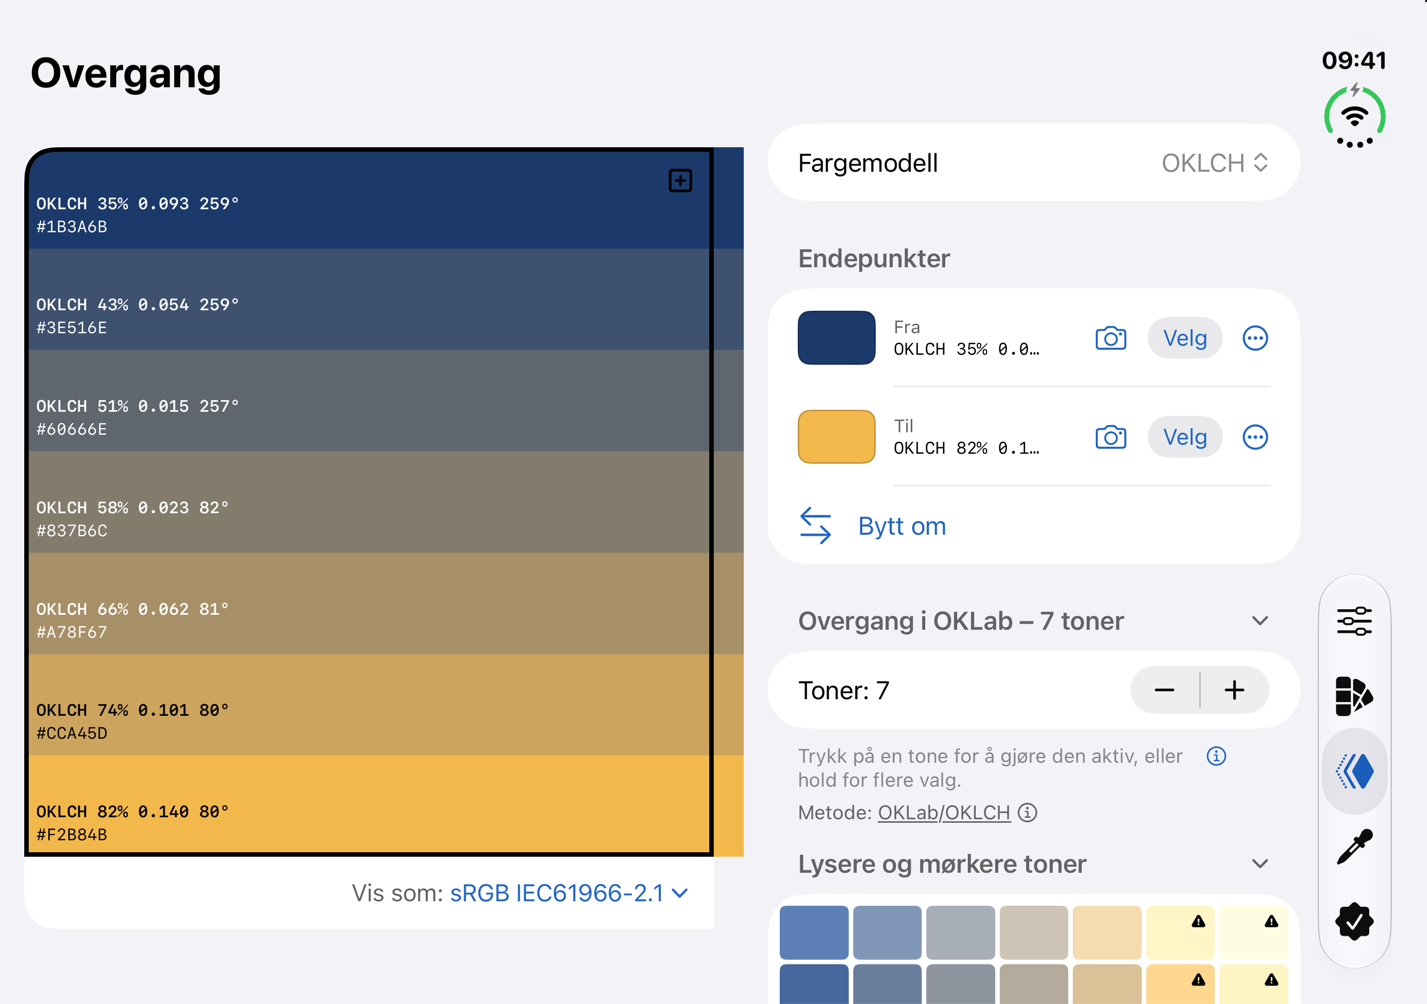
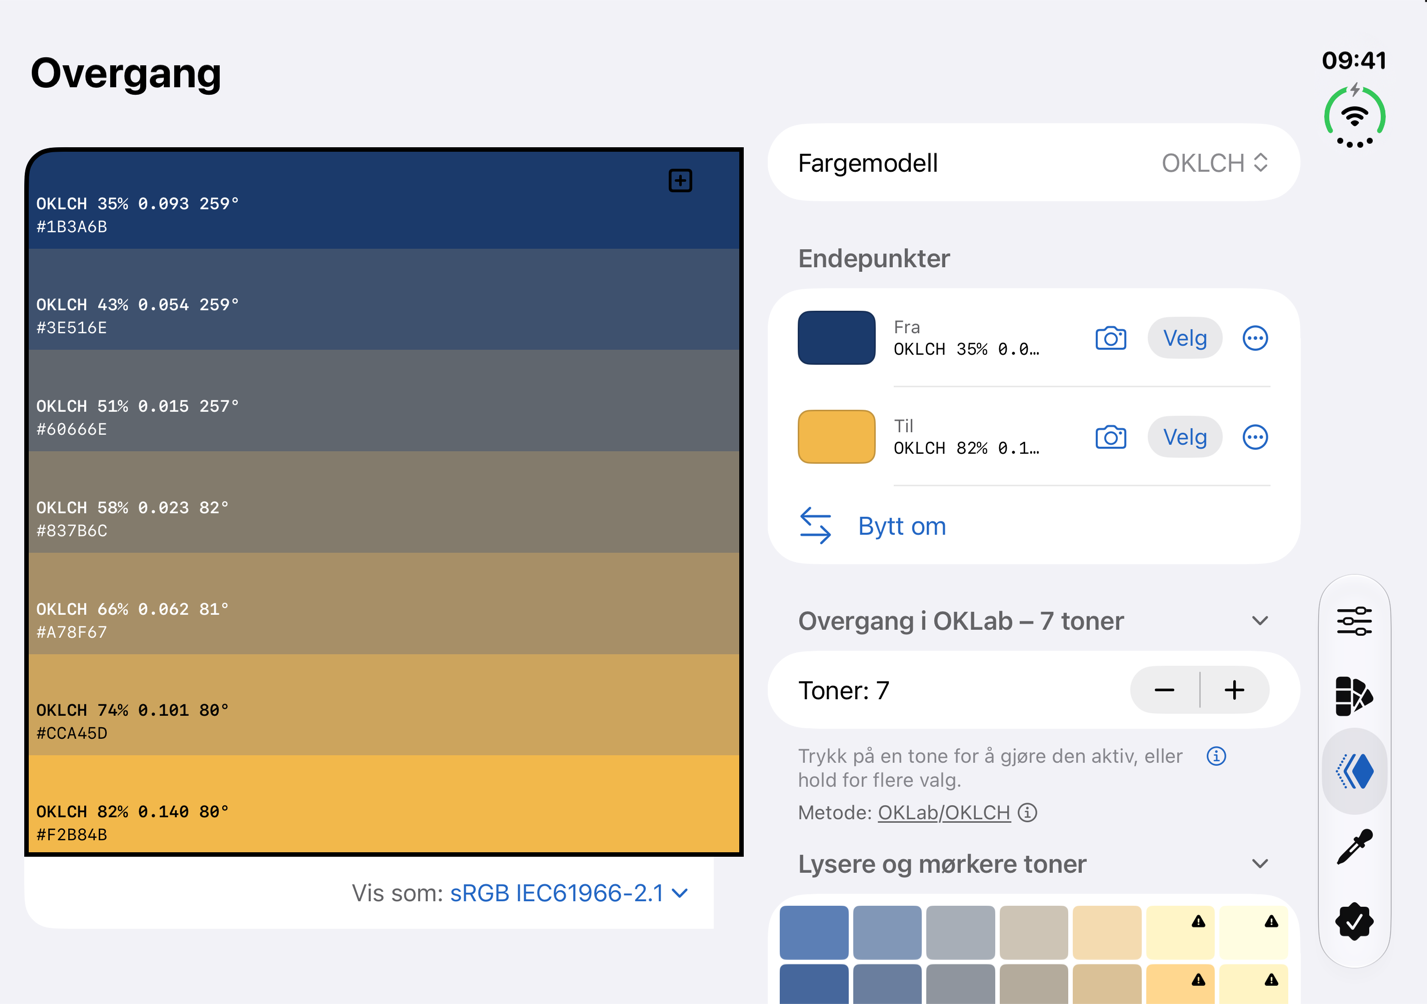
Web 1.4 Duo-siden: engelske skjermbilder av åpen visning, Harmoni og Overgang på nytt med rammen over brettelinjen

Changed region(s): [[0.4933, 0.1235, 0.5242, 0.8645]]

diff --git a/web/1.4/en/duo.html b/web/1.4/en/duo.html
@@ -69,11 +69,11 @@
       </div>
       <div class="duo-bilder">
         <figure class="duo-lukket">
-          <img src="../assets/en/duo/lukket-studio-farge.png?v=10" alt="Studio with the colour and the sliders – closed" width="699" height="1017" loading="lazy">
+          <img src="../assets/en/duo/lukket-studio-farge.png?d=2" alt="Studio with the colour and the sliders – closed" width="699" height="1017" loading="lazy">
           <figcaption>Closed</figcaption>
         </figure>
         <figure class="duo-åpen">
-          <img src="../assets/duo/apen-studio-farge.png?v=10" alt="Studio with the colour and the sliders – open" width="1427" height="1004" loading="lazy">
+          <img src="../assets/en/duo/apen-studio-farge.png?d=2" alt="Studio with the colour and the sliders – open" width="1427" height="1004" loading="lazy">
           <figcaption>Open</figcaption>
         </figure>
       </div>
@@ -90,11 +90,11 @@
       </div>
       <div class="duo-bilder">
         <figure class="duo-lukket">
-          <img src="../assets/en/duo/lukket-studio-harmoni.png?v=10" alt="A split-complementary harmony – closed" width="699" height="1017" loading="lazy">
+          <img src="../assets/en/duo/lukket-studio-harmoni.png?d=2" alt="A split-complementary harmony – closed" width="699" height="1017" loading="lazy">
           <figcaption>Closed</figcaption>
         </figure>
         <figure class="duo-åpen">
-          <img src="../assets/duo/apen-studio-harmoni.png?v=10" alt="A split-complementary harmony – open" width="1427" height="1004" loading="lazy">
+          <img src="../assets/en/duo/apen-studio-harmoni.png?d=2" alt="A split-complementary harmony – open" width="1427" height="1004" loading="lazy">
           <figcaption>Open</figcaption>
         </figure>
       </div>
@@ -110,11 +110,11 @@
       </div>
       <div class="duo-bilder">
         <figure class="duo-lukket">
-          <img src="../assets/en/duo/lukket-studio-toneskala.png?v=10" alt="A tone scale with eleven steps – closed" width="699" height="1017" loading="lazy">
+          <img src="../assets/en/duo/lukket-studio-toneskala.png?d=2" alt="A tone scale with eleven steps – closed" width="699" height="1017" loading="lazy">
           <figcaption>Closed</figcaption>
         </figure>
         <figure class="duo-åpen">
-          <img src="../assets/duo/apen-studio-toneskala.png?v=10" alt="A tone scale with eleven steps – open" width="1427" height="1004" loading="lazy">
+          <img src="../assets/en/duo/apen-studio-toneskala.png?d=2" alt="A tone scale with eleven steps – open" width="1427" height="1004" loading="lazy">
           <figcaption>Open</figcaption>
         </figure>
       </div>
@@ -130,11 +130,11 @@
       </div>
       <div class="duo-bilder">
         <figure class="duo-lukket">
-          <img src="../assets/en/duo/lukket-overgang.png?v=10" alt="A gradient in seven tones – closed" width="699" height="1017" loading="lazy">
+          <img src="../assets/en/duo/lukket-overgang.png?d=2" alt="A gradient in seven tones – closed" width="699" height="1017" loading="lazy">
           <figcaption>Closed</figcaption>
         </figure>
         <figure class="duo-åpen">
-          <img src="../assets/duo/apen-overgang.png?v=10" alt="A gradient in seven tones – open" width="1427" height="1004" loading="lazy">
+          <img src="../assets/en/duo/apen-overgang.png?d=2" alt="A gradient in seven tones – open" width="1427" height="1004" loading="lazy">
           <figcaption>Open</figcaption>
         </figure>
       </div>
@@ -150,11 +150,11 @@
       </div>
       <div class="duo-bilder">
         <figure class="duo-lukket">
-          <img src="../assets/en/duo/lukket-kontrast.png?v=10" alt="Contrast check for text on a white background – closed" width="699" height="1017" loading="lazy">
+          <img src="../assets/en/duo/lukket-kontrast.png?d=2" alt="Contrast check for text on a white background – closed" width="699" height="1017" loading="lazy">
           <figcaption>Closed</figcaption>
         </figure>
         <figure class="duo-åpen">
-          <img src="../assets/duo/apen-kontrast.png?v=10" alt="Contrast check for text on a white background – open" width="1427" height="1004" loading="lazy">
+          <img src="../assets/en/duo/apen-kontrast.png?d=2" alt="Contrast check for text on a white background – open" width="1427" height="1004" loading="lazy">
           <figcaption>Open</figcaption>
         </figure>
       </div>
@@ -170,11 +170,11 @@
       </div>
       <div class="duo-bilder">
         <figure class="duo-lukket">
-          <img src="../assets/en/duo/lukket-deltae.png?v=10" alt="The colour difference between two colours – closed" width="699" height="1017" loading="lazy">
+          <img src="../assets/en/duo/lukket-deltae.png?d=2" alt="The colour difference between two colours – closed" width="699" height="1017" loading="lazy">
           <figcaption>Closed</figcaption>
         </figure>
         <figure class="duo-åpen">
-          <img src="../assets/duo/apen-deltae.png?v=10" alt="The colour difference between two colours – open" width="1427" height="1004" loading="lazy">
+          <img src="../assets/en/duo/apen-deltae.png?d=2" alt="The colour difference between two colours – open" width="1427" height="1004" loading="lazy">
           <figcaption>Open</figcaption>
         </figure>
       </div>
@@ -192,11 +192,11 @@
       </div>
       <div class="duo-bilder">
         <figure class="duo-lukket">
-          <img src="../assets/en/duo/lukket-fargesyn.png?v=10" alt="A palette with normal vision and deuteranopia – closed" width="699" height="1017" loading="lazy">
+          <img src="../assets/en/duo/lukket-fargesyn.png?d=2" alt="A palette with normal vision and deuteranopia – closed" width="699" height="1017" loading="lazy">
           <figcaption>Closed</figcaption>
         </figure>
         <figure class="duo-åpen">
-          <img src="../assets/duo/apen-fargesyn.png?v=10" alt="A palette with normal vision and deuteranopia – open" width="1427" height="1004" loading="lazy">
+          <img src="../assets/en/duo/apen-fargesyn.png?d=2" alt="A palette with normal vision and deuteranopia – open" width="1427" height="1004" loading="lazy">
           <figcaption>Open</figcaption>
         </figure>
       </div>
@@ -212,11 +212,11 @@
       </div>
       <div class="duo-bilder">
         <figure class="duo-lukket">
-          <img src="../assets/en/duo/lukket-lys.png?v=10" alt="A colour under several viewing conditions – closed" width="699" height="1017" loading="lazy">
+          <img src="../assets/en/duo/lukket-lys.png?d=2" alt="A colour under several viewing conditions – closed" width="699" height="1017" loading="lazy">
           <figcaption>Closed</figcaption>
         </figure>
         <figure class="duo-åpen">
-          <img src="../assets/duo/apen-lys.png?v=10" alt="A colour under several viewing conditions – open" width="1427" height="1004" loading="lazy">
+          <img src="../assets/en/duo/apen-lys.png?d=2" alt="A colour under several viewing conditions – open" width="1427" height="1004" loading="lazy">
           <figcaption>Open</figcaption>
         </figure>
       </div>
@@ -232,13 +232,13 @@
       </div>
       <div class="duo-bilder høyde">
         <figure class="duo-høyde">
-          <img src="../assets/en/duo/hoyde-studio-harmoni.png?v=10" alt="A harmony, upright" width="1004" height="1427" loading="lazy">
+          <img src="../assets/en/duo/hoyde-studio-harmoni.png?d=2" alt="A harmony, upright" width="1004" height="1427" loading="lazy">
         </figure>
         <figure class="duo-høyde">
-          <img src="../assets/en/duo/hoyde-overgang.png?v=10" alt="A gradient, upright" width="1004" height="1427" loading="lazy">
+          <img src="../assets/en/duo/hoyde-overgang.png?d=2" alt="A gradient, upright" width="1004" height="1427" loading="lazy">
         </figure>
         <figure class="duo-høyde">
-          <img src="../assets/en/duo/hoyde-fargesyn.png?v=10" alt="Colour vision, upright" width="1004" height="1427" loading="lazy">
+          <img src="../assets/en/duo/hoyde-fargesyn.png?d=2" alt="Colour vision, upright" width="1004" height="1427" loading="lazy">
         </figure>
       </div>
     </section>

diff --git a/web/1.4/duo.html b/web/1.4/duo.html
@@ -69,11 +69,11 @@
       </div>
       <div class="duo-bilder">
         <figure class="duo-lukket">
-          <img src="assets/duo/lukket-studio-farge.png?v=10" alt="Studio med fargen og gliderne – lukket" width="699" height="1017" loading="lazy">
+          <img src="assets/duo/lukket-studio-farge.png?d=2" alt="Studio med fargen og gliderne – lukket" width="699" height="1017" loading="lazy">
           <figcaption>Lukket</figcaption>
         </figure>
         <figure class="duo-åpen">
-          <img src="assets/duo/apen-studio-farge.png?v=10" alt="Studio med fargen og gliderne – åpen" width="1427" height="1004" loading="lazy">
+          <img src="assets/duo/apen-studio-farge.png?d=2" alt="Studio med fargen og gliderne – åpen" width="1427" height="1004" loading="lazy">
           <figcaption>Åpen</figcaption>
         </figure>
       </div>
@@ -90,11 +90,11 @@
       </div>
       <div class="duo-bilder">
         <figure class="duo-lukket">
-          <img src="assets/duo/lukket-studio-harmoni.png?v=10" alt="En split-komplementær harmoni – lukket" width="699" height="1017" loading="lazy">
+          <img src="assets/duo/lukket-studio-harmoni.png?d=2" alt="En split-komplementær harmoni – lukket" width="699" height="1017" loading="lazy">
           <figcaption>Lukket</figcaption>
         </figure>
         <figure class="duo-åpen">
-          <img src="assets/duo/apen-studio-harmoni.png?v=10" alt="En split-komplementær harmoni – åpen" width="1427" height="1004" loading="lazy">
+          <img src="assets/duo/apen-studio-harmoni.png?d=2" alt="En split-komplementær harmoni – åpen" width="1427" height="1004" loading="lazy">
           <figcaption>Åpen</figcaption>
         </figure>
       </div>
@@ -110,11 +110,11 @@
       </div>
       <div class="duo-bilder">
         <figure class="duo-lukket">
-          <img src="assets/duo/lukket-studio-toneskala.png?v=10" alt="En toneskala med elleve trinn – lukket" width="699" height="1017" loading="lazy">
+          <img src="assets/duo/lukket-studio-toneskala.png?d=2" alt="En toneskala med elleve trinn – lukket" width="699" height="1017" loading="lazy">
           <figcaption>Lukket</figcaption>
         </figure>
         <figure class="duo-åpen">
-          <img src="assets/duo/apen-studio-toneskala.png?v=10" alt="En toneskala med elleve trinn – åpen" width="1427" height="1004" loading="lazy">
+          <img src="assets/duo/apen-studio-toneskala.png?d=2" alt="En toneskala med elleve trinn – åpen" width="1427" height="1004" loading="lazy">
           <figcaption>Åpen</figcaption>
         </figure>
       </div>
@@ -130,11 +130,11 @@
       </div>
       <div class="duo-bilder">
         <figure class="duo-lukket">
-          <img src="assets/duo/lukket-overgang.png?v=10" alt="En overgang i sju toner – lukket" width="699" height="1017" loading="lazy">
+          <img src="assets/duo/lukket-overgang.png?d=2" alt="En overgang i sju toner – lukket" width="699" height="1017" loading="lazy">
           <figcaption>Lukket</figcaption>
         </figure>
         <figure class="duo-åpen">
-          <img src="assets/duo/apen-overgang.png?v=10" alt="En overgang i sju toner – åpen" width="1427" height="1004" loading="lazy">
+          <img src="assets/duo/apen-overgang.png?d=2" alt="En overgang i sju toner – åpen" width="1427" height="1004" loading="lazy">
           <figcaption>Åpen</figcaption>
         </figure>
       </div>
@@ -150,11 +150,11 @@
       </div>
       <div class="duo-bilder">
         <figure class="duo-lukket">
-          <img src="assets/duo/lukket-kontrast.png?v=10" alt="Kontrastsjekk for tekst på hvit bakgrunn – lukket" width="699" height="1017" loading="lazy">
+          <img src="assets/duo/lukket-kontrast.png?d=2" alt="Kontrastsjekk for tekst på hvit bakgrunn – lukket" width="699" height="1017" loading="lazy">
           <figcaption>Lukket</figcaption>
         </figure>
         <figure class="duo-åpen">
-          <img src="assets/duo/apen-kontrast.png?v=10" alt="Kontrastsjekk for tekst på hvit bakgrunn – åpen" width="1427" height="1004" loading="lazy">
+          <img src="assets/duo/apen-kontrast.png?d=2" alt="Kontrastsjekk for tekst på hvit bakgrunn – åpen" width="1427" height="1004" loading="lazy">
           <figcaption>Åpen</figcaption>
         </figure>
       </div>
@@ -170,11 +170,11 @@
       </div>
       <div class="duo-bilder">
         <figure class="duo-lukket">
-          <img src="assets/duo/lukket-deltae.png?v=10" alt="Fargeforskjellen mellom to farger – lukket" width="699" height="1017" loading="lazy">
+          <img src="assets/duo/lukket-deltae.png?d=2" alt="Fargeforskjellen mellom to farger – lukket" width="699" height="1017" loading="lazy">
           <figcaption>Lukket</figcaption>
         </figure>
         <figure class="duo-åpen">
-          <img src="assets/duo/apen-deltae.png?v=10" alt="Fargeforskjellen mellom to farger – åpen" width="1427" height="1004" loading="lazy">
+          <img src="assets/duo/apen-deltae.png?d=2" alt="Fargeforskjellen mellom to farger – åpen" width="1427" height="1004" loading="lazy">
           <figcaption>Åpen</figcaption>
         </figure>
       </div>
@@ -192,11 +192,11 @@
       </div>
       <div class="duo-bilder">
         <figure class="duo-lukket">
-          <img src="assets/duo/lukket-fargesyn.png?v=10" alt="En palett med normalt syn og deuteranopi – lukket" width="699" height="1017" loading="lazy">
+          <img src="assets/duo/lukket-fargesyn.png?d=2" alt="En palett med normalt syn og deuteranopi – lukket" width="699" height="1017" loading="lazy">
           <figcaption>Lukket</figcaption>
         </figure>
         <figure class="duo-åpen">
-          <img src="assets/duo/apen-fargesyn.png?v=10" alt="En palett med normalt syn og deuteranopi – åpen" width="1427" height="1004" loading="lazy">
+          <img src="assets/duo/apen-fargesyn.png?d=2" alt="En palett med normalt syn og deuteranopi – åpen" width="1427" height="1004" loading="lazy">
           <figcaption>Åpen</figcaption>
         </figure>
       </div>
@@ -212,11 +212,11 @@
       </div>
       <div class="duo-bilder">
         <figure class="duo-lukket">
-          <img src="assets/duo/lukket-lys.png?v=10" alt="En farge under flere betraktningsforhold – lukket" width="699" height="1017" loading="lazy">
+          <img src="assets/duo/lukket-lys.png?d=2" alt="En farge under flere betraktningsforhold – lukket" width="699" height="1017" loading="lazy">
           <figcaption>Lukket</figcaption>
         </figure>
         <figure class="duo-åpen">
-          <img src="assets/duo/apen-lys.png?v=10" alt="En farge under flere betraktningsforhold – åpen" width="1427" height="1004" loading="lazy">
+          <img src="assets/duo/apen-lys.png?d=2" alt="En farge under flere betraktningsforhold – åpen" width="1427" height="1004" loading="lazy">
           <figcaption>Åpen</figcaption>
         </figure>
       </div>
@@ -232,13 +232,13 @@
       </div>
       <div class="duo-bilder høyde">
         <figure class="duo-høyde">
-          <img src="assets/duo/hoyde-studio-harmoni.png?v=10" alt="En harmoni, stående" width="1004" height="1427" loading="lazy">
+          <img src="assets/duo/hoyde-studio-harmoni.png?d=2" alt="En harmoni, stående" width="1004" height="1427" loading="lazy">
         </figure>
         <figure class="duo-høyde">
-          <img src="assets/duo/hoyde-overgang.png?v=10" alt="En overgang, stående" width="1004" height="1427" loading="lazy">
+          <img src="assets/duo/hoyde-overgang.png?d=2" alt="En overgang, stående" width="1004" height="1427" loading="lazy">
         </figure>
         <figure class="duo-høyde">
-          <img src="assets/duo/hoyde-fargesyn.png?v=10" alt="Fargesyn, stående" width="1004" height="1427" loading="lazy">
+          <img src="assets/duo/hoyde-fargesyn.png?d=2" alt="Fargesyn, stående" width="1004" height="1427" loading="lazy">
         </figure>
       </div>
     </section>

diff --git a/web/verktøy/lag_sider.py b/web/verktøy/lag_sider.py
@@ -236,7 +236,7 @@ def duobilde(lang, tilstand, navn, alt):
         src = f'../assets/en/duo/{fil}' if os.path.exists(f'{W}/assets/en/duo/{fil}') else f'../assets/duo/{fil}'
     else:
         src = f'assets/duo/{fil}'
-    return f'<img src="{src}?v=1" alt="{alt}" width="{b}" height="{h}" loading="lazy">'
+    return f'<img src="{src}?d=2" alt="{alt}" width="{b}" height="{h}" loading="lazy">'
 
 
 def duofigur(lang, art, navn, alt):
